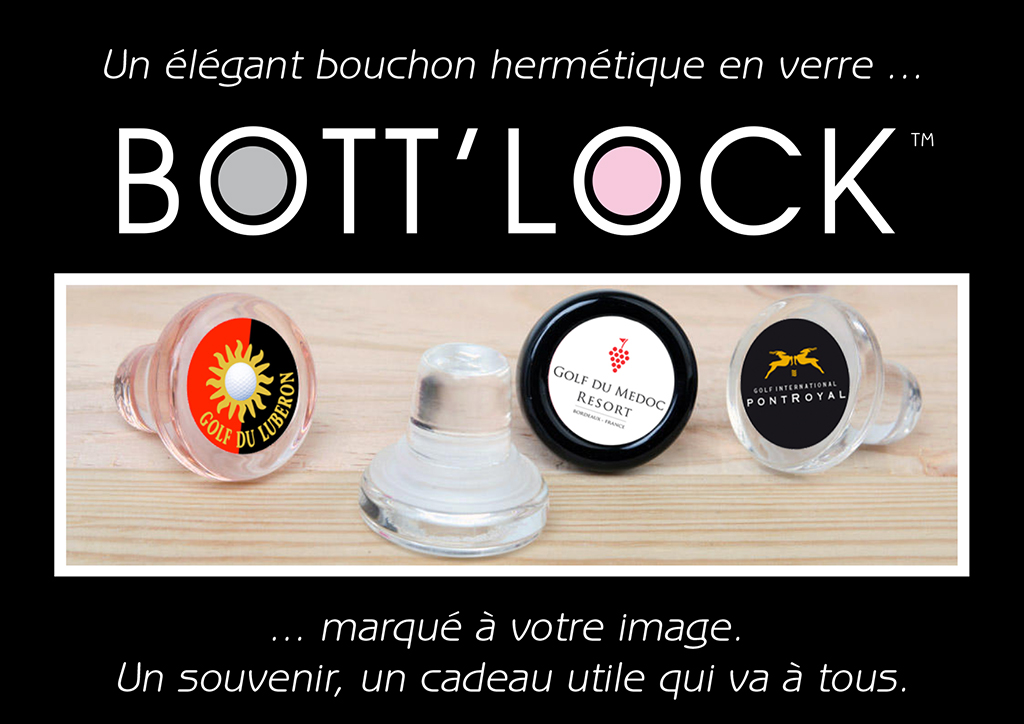
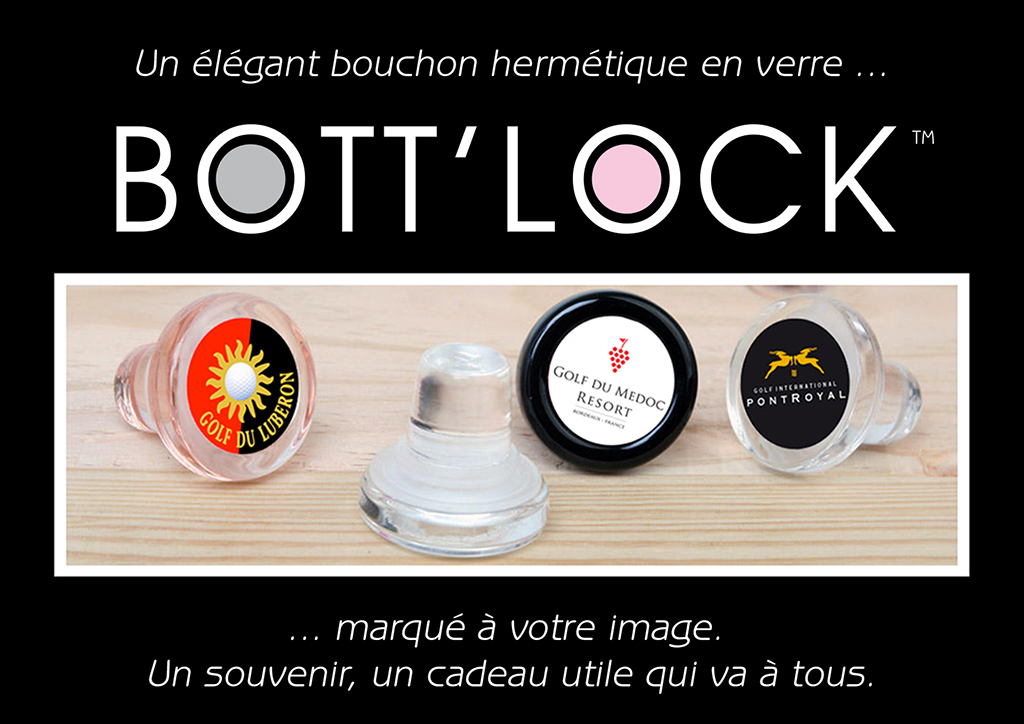
- updated style

diff --git a/index.htm b/index.htm
@@ -17,7 +17,7 @@
     </p>
         Habillé de votre logo en tête grâce à un sticker dômé<br>
         A vendre en boutique ou à remettre en cadeau ou en souvenir d’une journée.<br>
-    <p style="font-style: italic;">
+    <p style="font-style: italic; font-size: 20px;">
         Bott’lock est conforme aux réglementations et normes d’hygiène<br>
         La bague en Elvas, qui assure l’étanchéité, ne contient ni phtalates ni allergènes<br>
     </p>

diff --git a/css/style.css b/css/style.css
@@ -7,7 +7,7 @@
     src: url("../fonts/Benguiat_Gothic_Bold.ttf") format('truetype');
 }
 
-body{ width: 100%; height: 100%; background-color: black; color: white; font-family: arial; font-size: 20px; font-weight: lighter; }
+body{ width: 100%; height: 100%; background-color: black; color: #ccc; font-family: arial; font-size: 24px; font-weight: lighter; }
 
 div{
     margin-left: auto; margin-right: auto; text-align: center;
